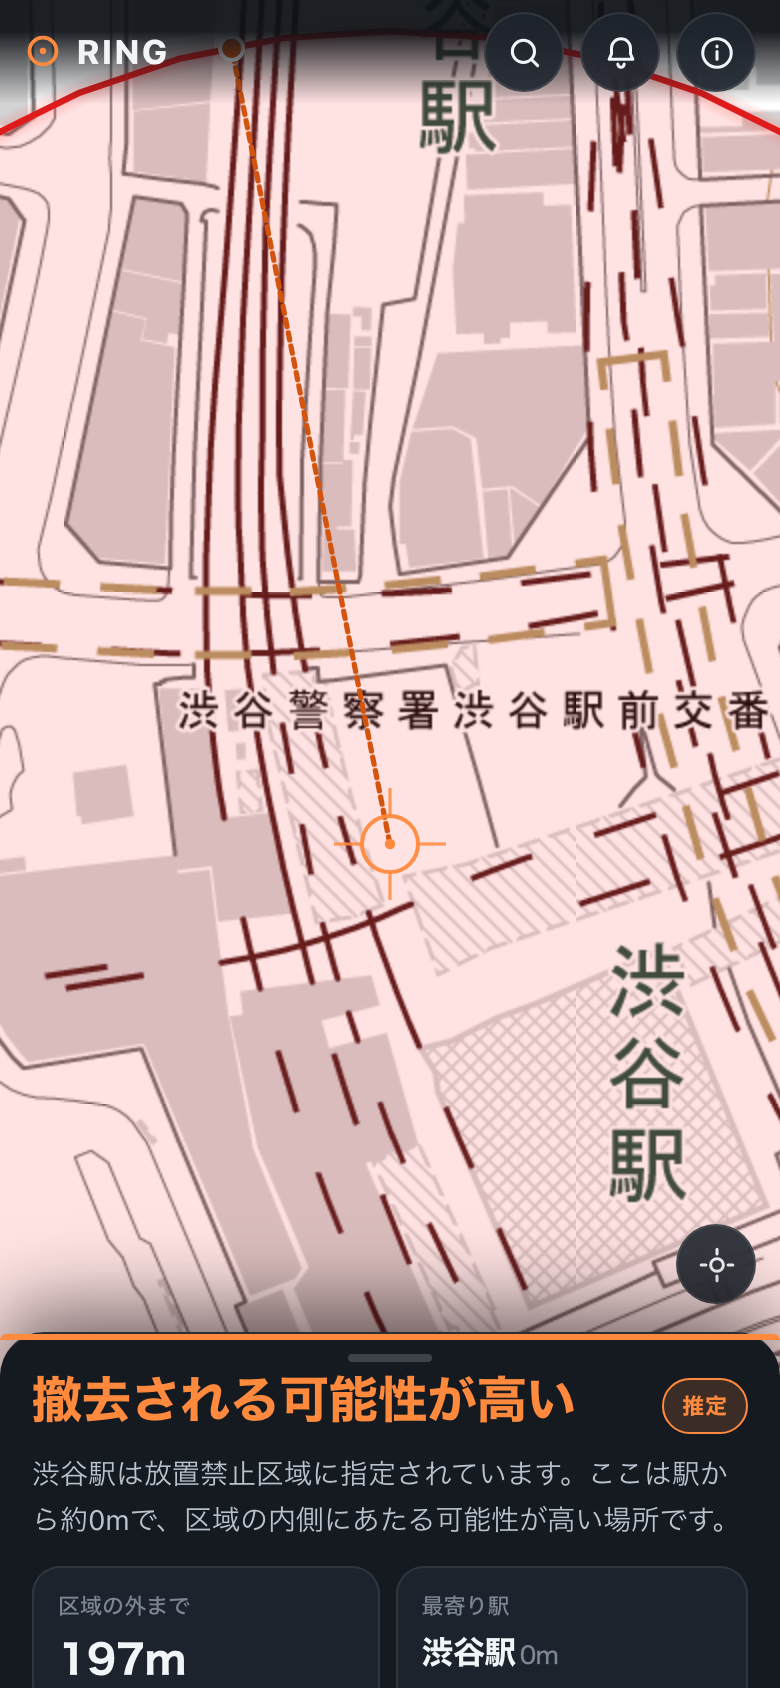
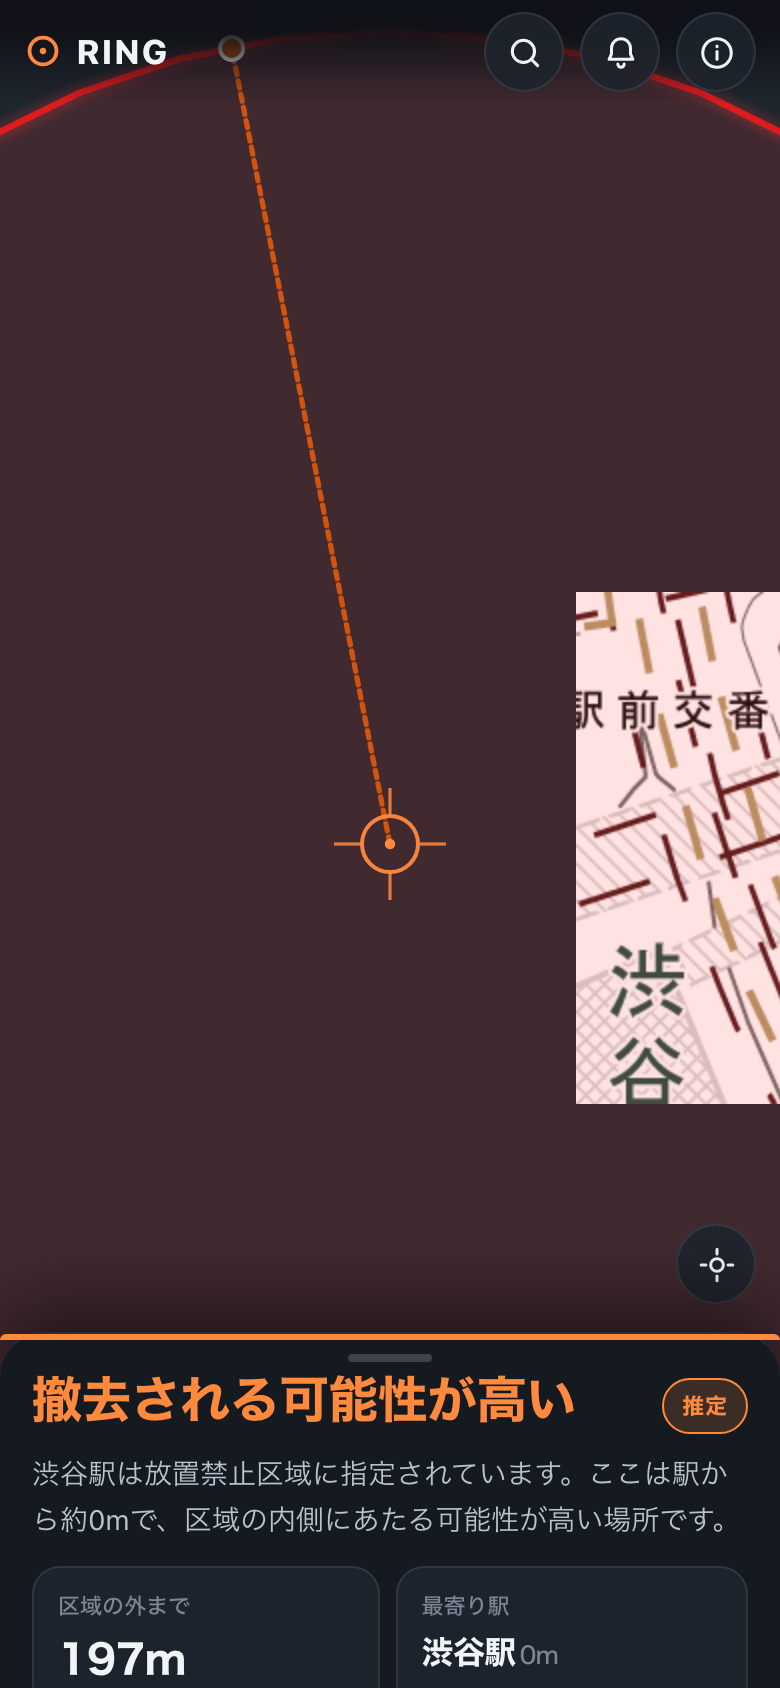
docs: ゴール達成の記録と検証スクリプトを追加
当初の指示（spec.md／GitHubリポジトリ／Issue化／ブラウザアプリ実装／
東京都オープンデータの組み込み／公開サイト／単一HTML解説）の達成状況を、
実行して確認した証拠つきで docs/GOAL-COMPLETION.md に記録した。

scripts/goal-check.sh で全項目をいつでも再検証できる。
配信先を Cloudflare Pages に変更した経緯も明記。

Claude-Session: https://claude.ai/code/session_01HeTbQn6TCvfEUZrWavP8G7

diff --git a/docs/GOAL-COMPLETION.md b/docs/GOAL-COMPLETION.md
@@ -1,0 +1,42 @@
+# ゴール達成の記録（GOAL-COMPLETION）
+
+当初いただいた指示に対する達成状況を、実行して確認した証拠つきで記録する。
+検証日: 2026-08-26 ／ 検証コマンド: `bash scripts/goal-check.sh`
+
+---
+
+## 指示と達成状況
+
+| # | 指示 | 状態 | 証拠 |
+|---|---|---|---|
+| 1 | spec.md を作り込む（スペック駆動開発） | ✅ | 947行。機能要件 FR-1〜10、非機能 NFR-1〜8、受入基準 AC-1〜4。判定アルゴリズムを疑似コードで記述し、技術選定を理由つきで明記 |
+| 2 | GitHub リポジトリを作成し Git 管理と結びつける | ✅ | https://github.com/yuu0428/ring （public）／ 13 コミット |
+| 3 | spec.md を元に Issue 化し、進捗を人も AI も分かるように | ✅ | Issue 33 件（完了 32／未完了 1）。`area:` `P0〜P3` `status:` `type:` の 4 系統でラベル分類。`docs/STATUS.md` に一覧表 |
+| 4 | ブラウザアプリとして実装 | ✅ | `src/` 12 ファイル。判定エンジンのテスト 18/18 通過、TypeScript strict で型エラー 0 |
+| 5 | 東京都のオープンデータを探して組み込む | ✅ | 出典 12 件を統合 → 駅 931／放置禁止区域 519／駐輪場 159／保管所 8 |
+| 6 | 成果物1：どのようなものを作ったか見せるサイト | ✅ | https://ring-5oq.pages.dev （HTTP 200・本番URLで検証 20/20 通過）<br>加えて提出物まとめ https://ring-submission.pages.dev |
+| 7 | 成果物2：どう作ったか・どう使うかの単一 HTML | ✅ | `explain.html` 548KB。**外部ファイル参照 0 件**、画像 6 枚を data URI で内包した自己完結ファイル |
+
+## 当初指示から変更した点
+
+**配信先を GitHub Pages から Cloudflare Pages に変更した。**
+
+- 変更理由：ご本人の指示「github pages ではなく、cloudflare で公開してください」（2026-08-23）
+- 実施内容：GitHub Pages の公開設定とワークフローを廃止し、Cloudflare Pages に一本化（二重公開をやめた）
+- 記録：`docs/DECISIONS.md` の変更履歴に、旧決定・新決定・理由を残している
+
+## 使用したオープンデータの提供元
+
+東京都都民安全総合対策本部／国土交通省／国土地理院／文京区／品川区／目黒区／中野区／中央区／大田区
+（＋本プロジェクトが生成した放置禁止区域データ）
+
+## 残作業
+
+Issue #29「データ更新を週次で検出する GitHub Actions」のみ。
+ワークフロー自体は `.github/workflows/data-refresh.yml` に実装済みで、初回の定期実行を待っている状態。
+
+## ゴール外に追加したもの
+
+- 提出物まとめページ https://ring-submission.pages.dev
+- 応募フォームの提出（都知事杯オープンデータ・ハッカソン2026／2026-08-23 送信済み）
+- デモ操作動画（Remotion・77 秒）、プレゼン資料（PDF 12 枚）
